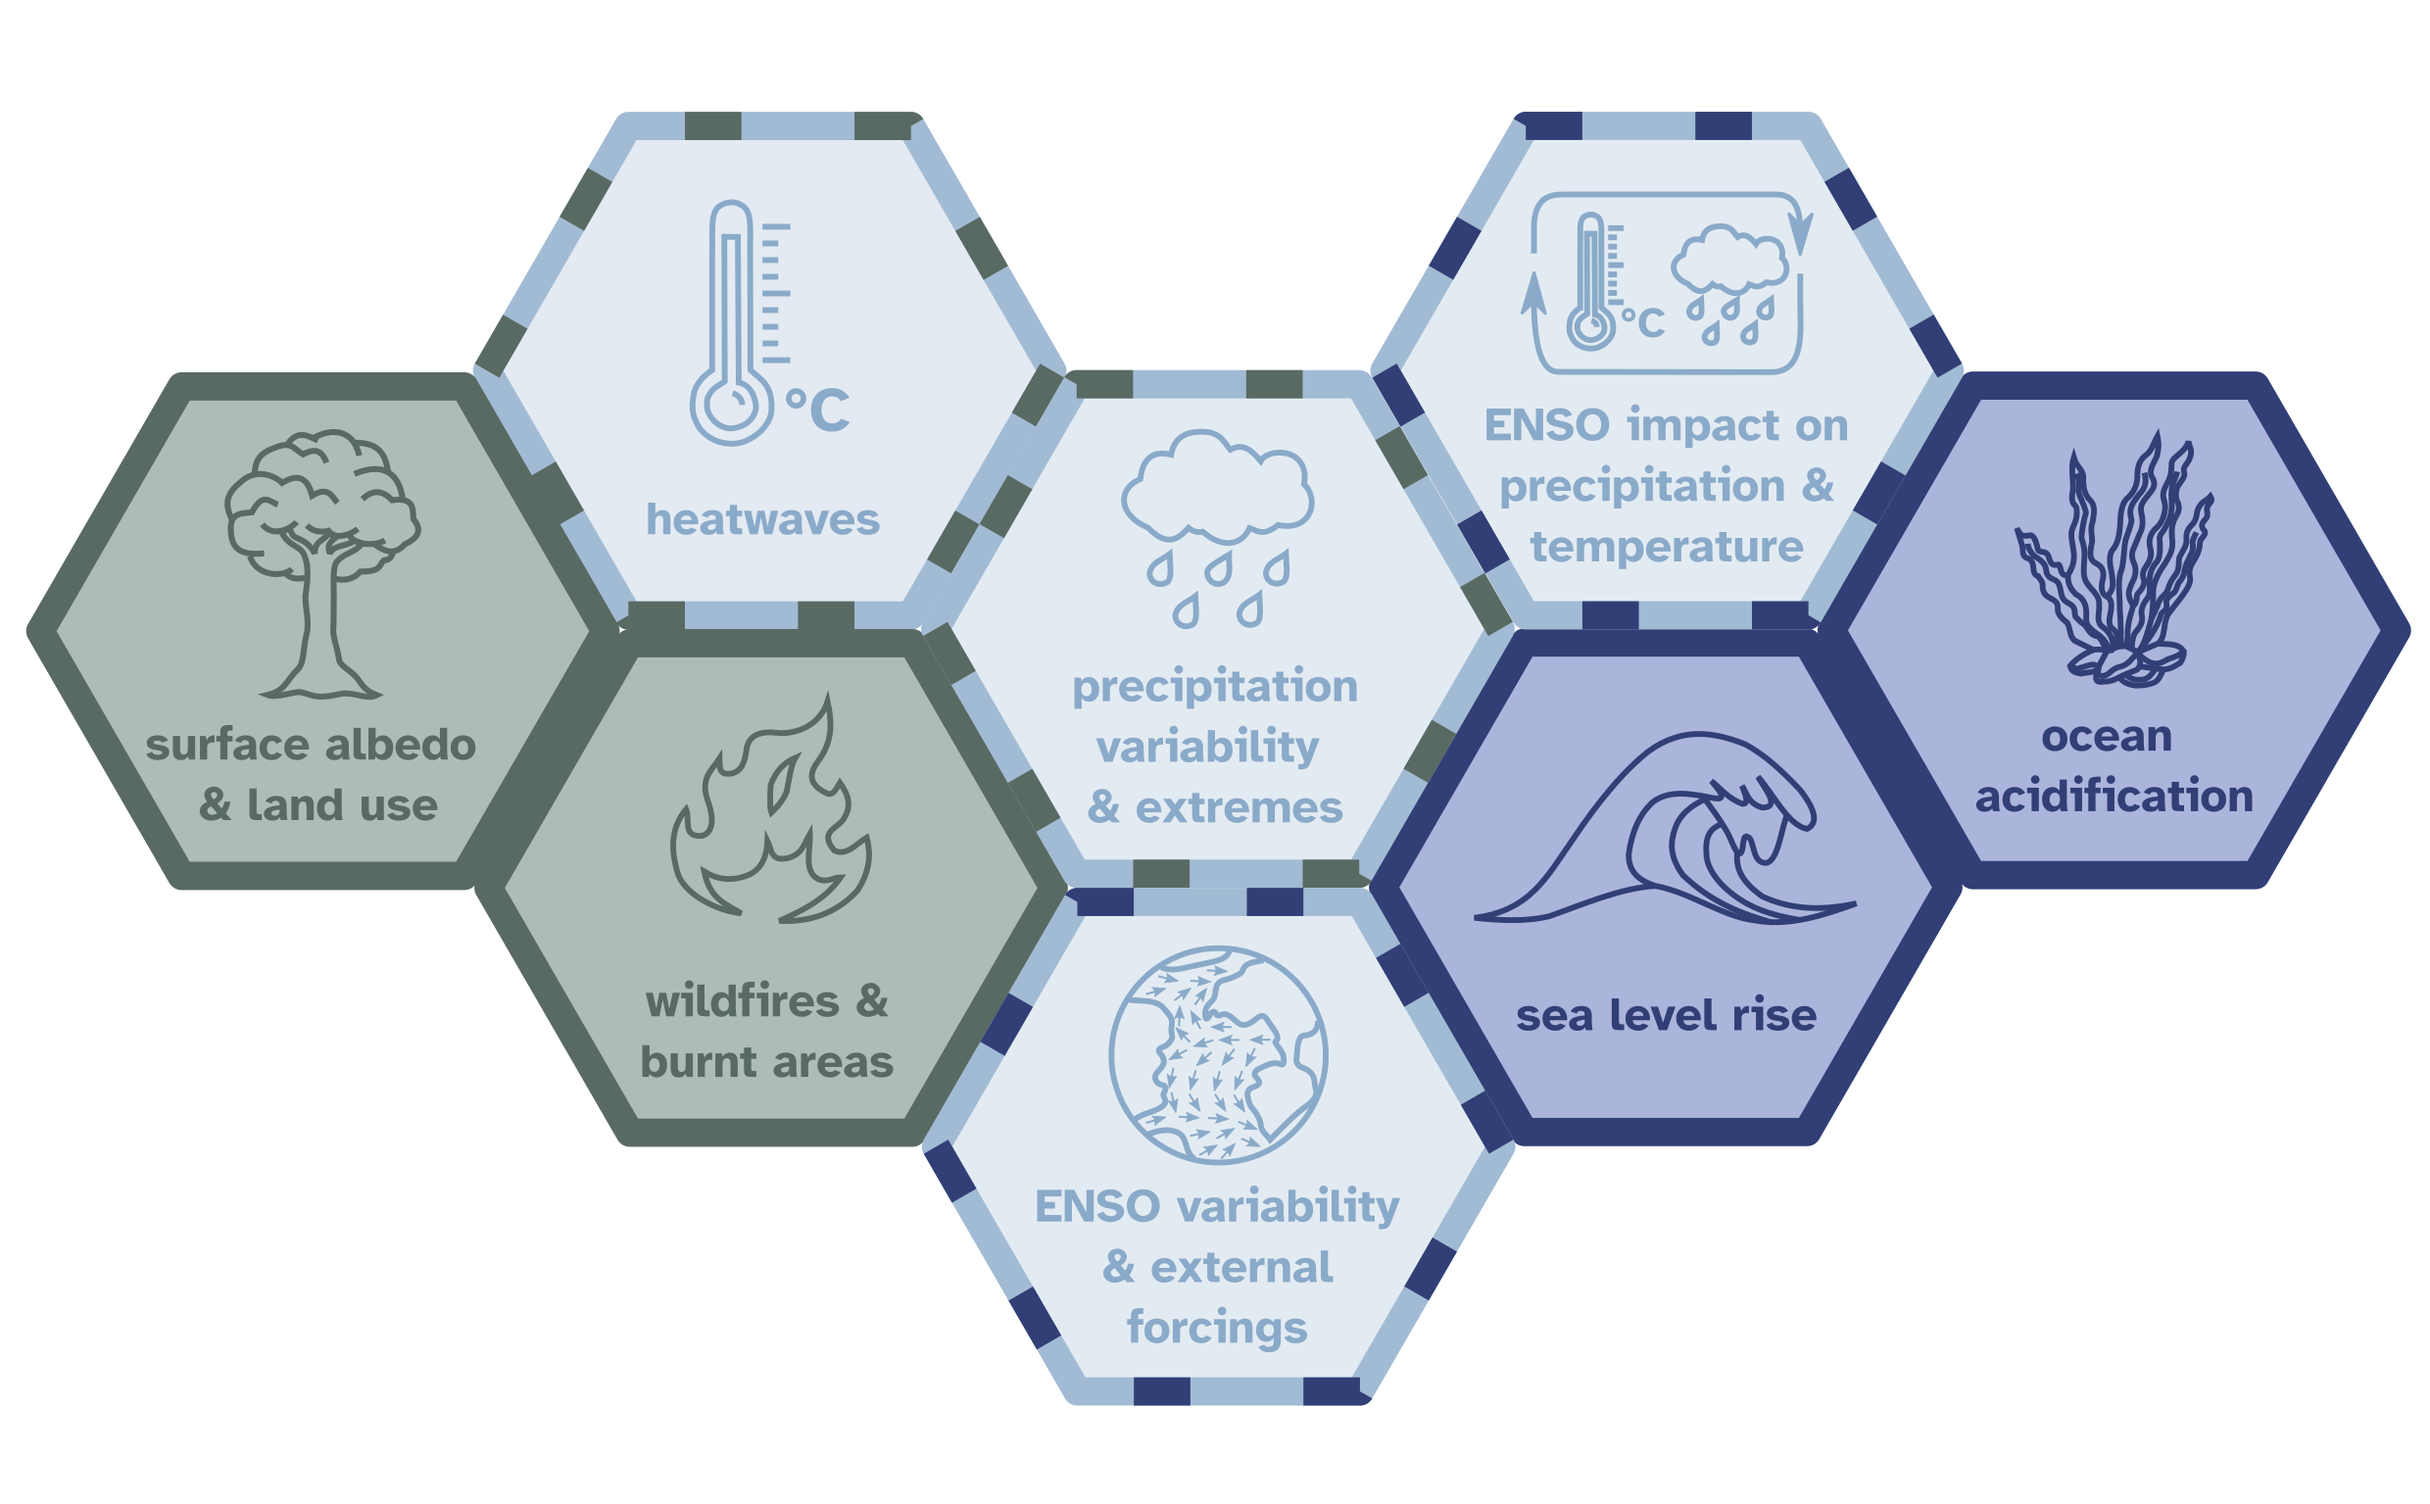
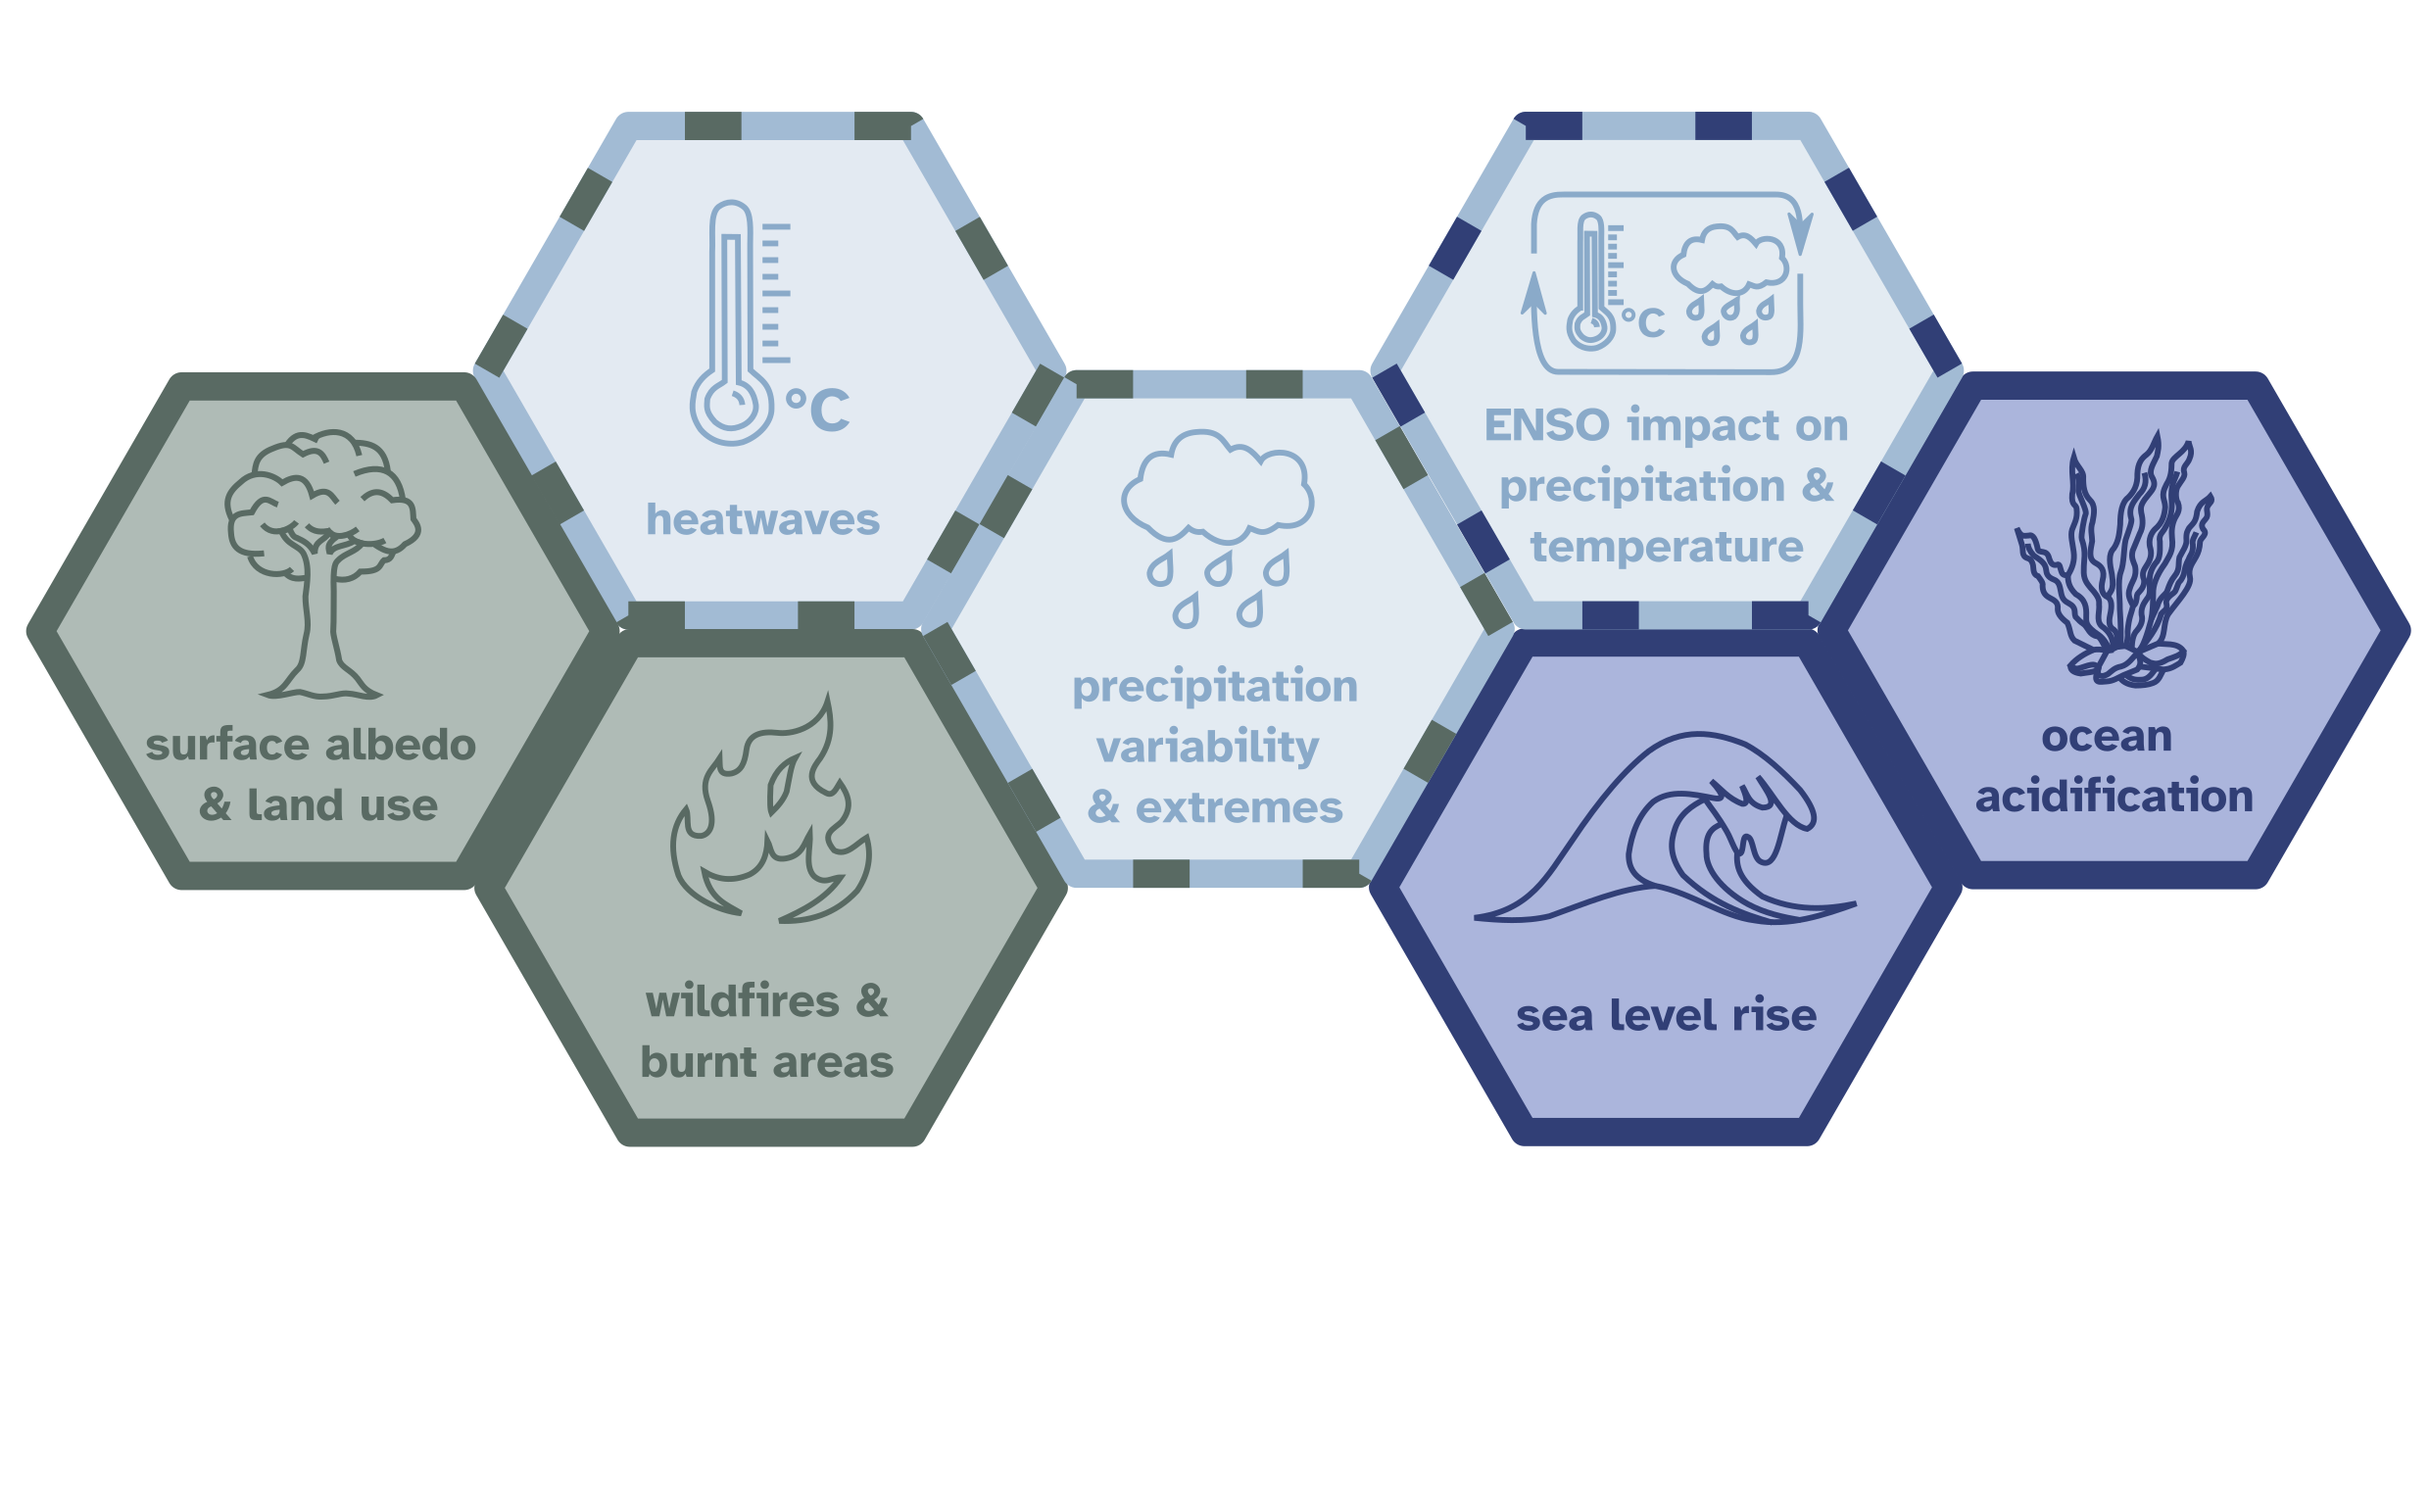
Remove ENSO paleo

Changed region(s): [[0.3726, 0.5818, 0.621, 0.9492]]

diff --git a/projects.html b/projects.html
@@ -43,13 +43,6 @@
                 temperature, ENSO index, and external forcings</u> like greenhouse gasses and volcanic eruptions, and how they affect 
                 <u>hydrological change</u>, including extreme precipitation and drought events, in the students’ region of interest.
             </p>   
-            <h5>The impact of ENSO on precipitation and temperature</h5>
-            <p align='justify'>To understand the historical and future impacts of ENSO events on rainfall and temperature 
-                in a region of interest, students will work with <u>climate model output, reanalysis data, and Niño 3.4 index</u> 
-                from CMIP5/6, ERA5, NOAA, and HadISST, focusing on variables like <u>sea surface temperature, surface air temperature, 
-                and precipitation</u>. This data will also be used to investigate the relationships between these variables and how they 
-                affect <u>community efforts</u> to prepare for the impacts of El Niño phases.
-            </p>
             </div>
         <h3> <span style = color:#7893AD> Atmosphere / </span> <span style = color:#596a63>Land</span> </h3>
             <div style = 'margin: 0px 50px 0px'>
